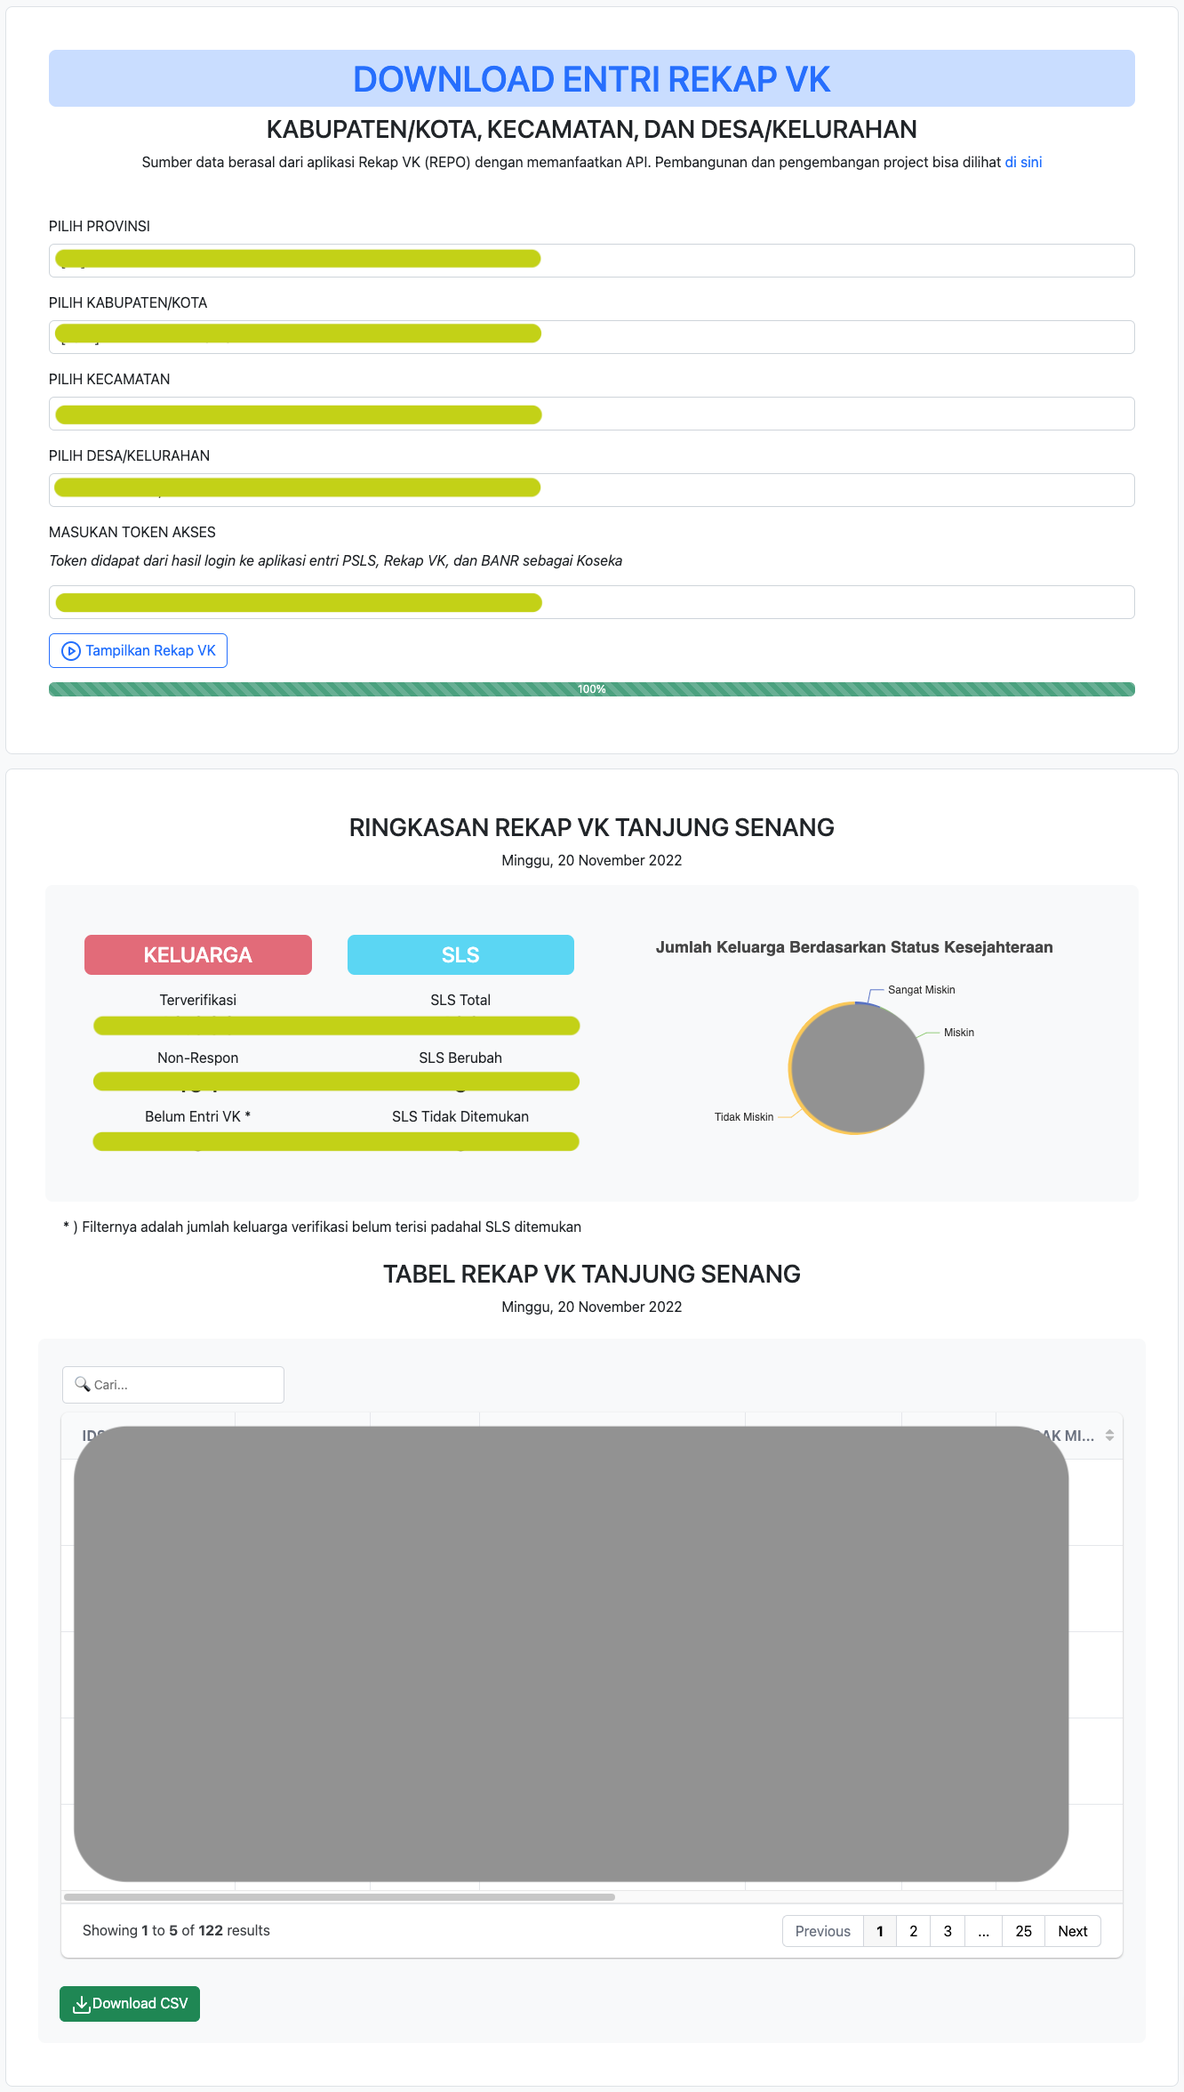
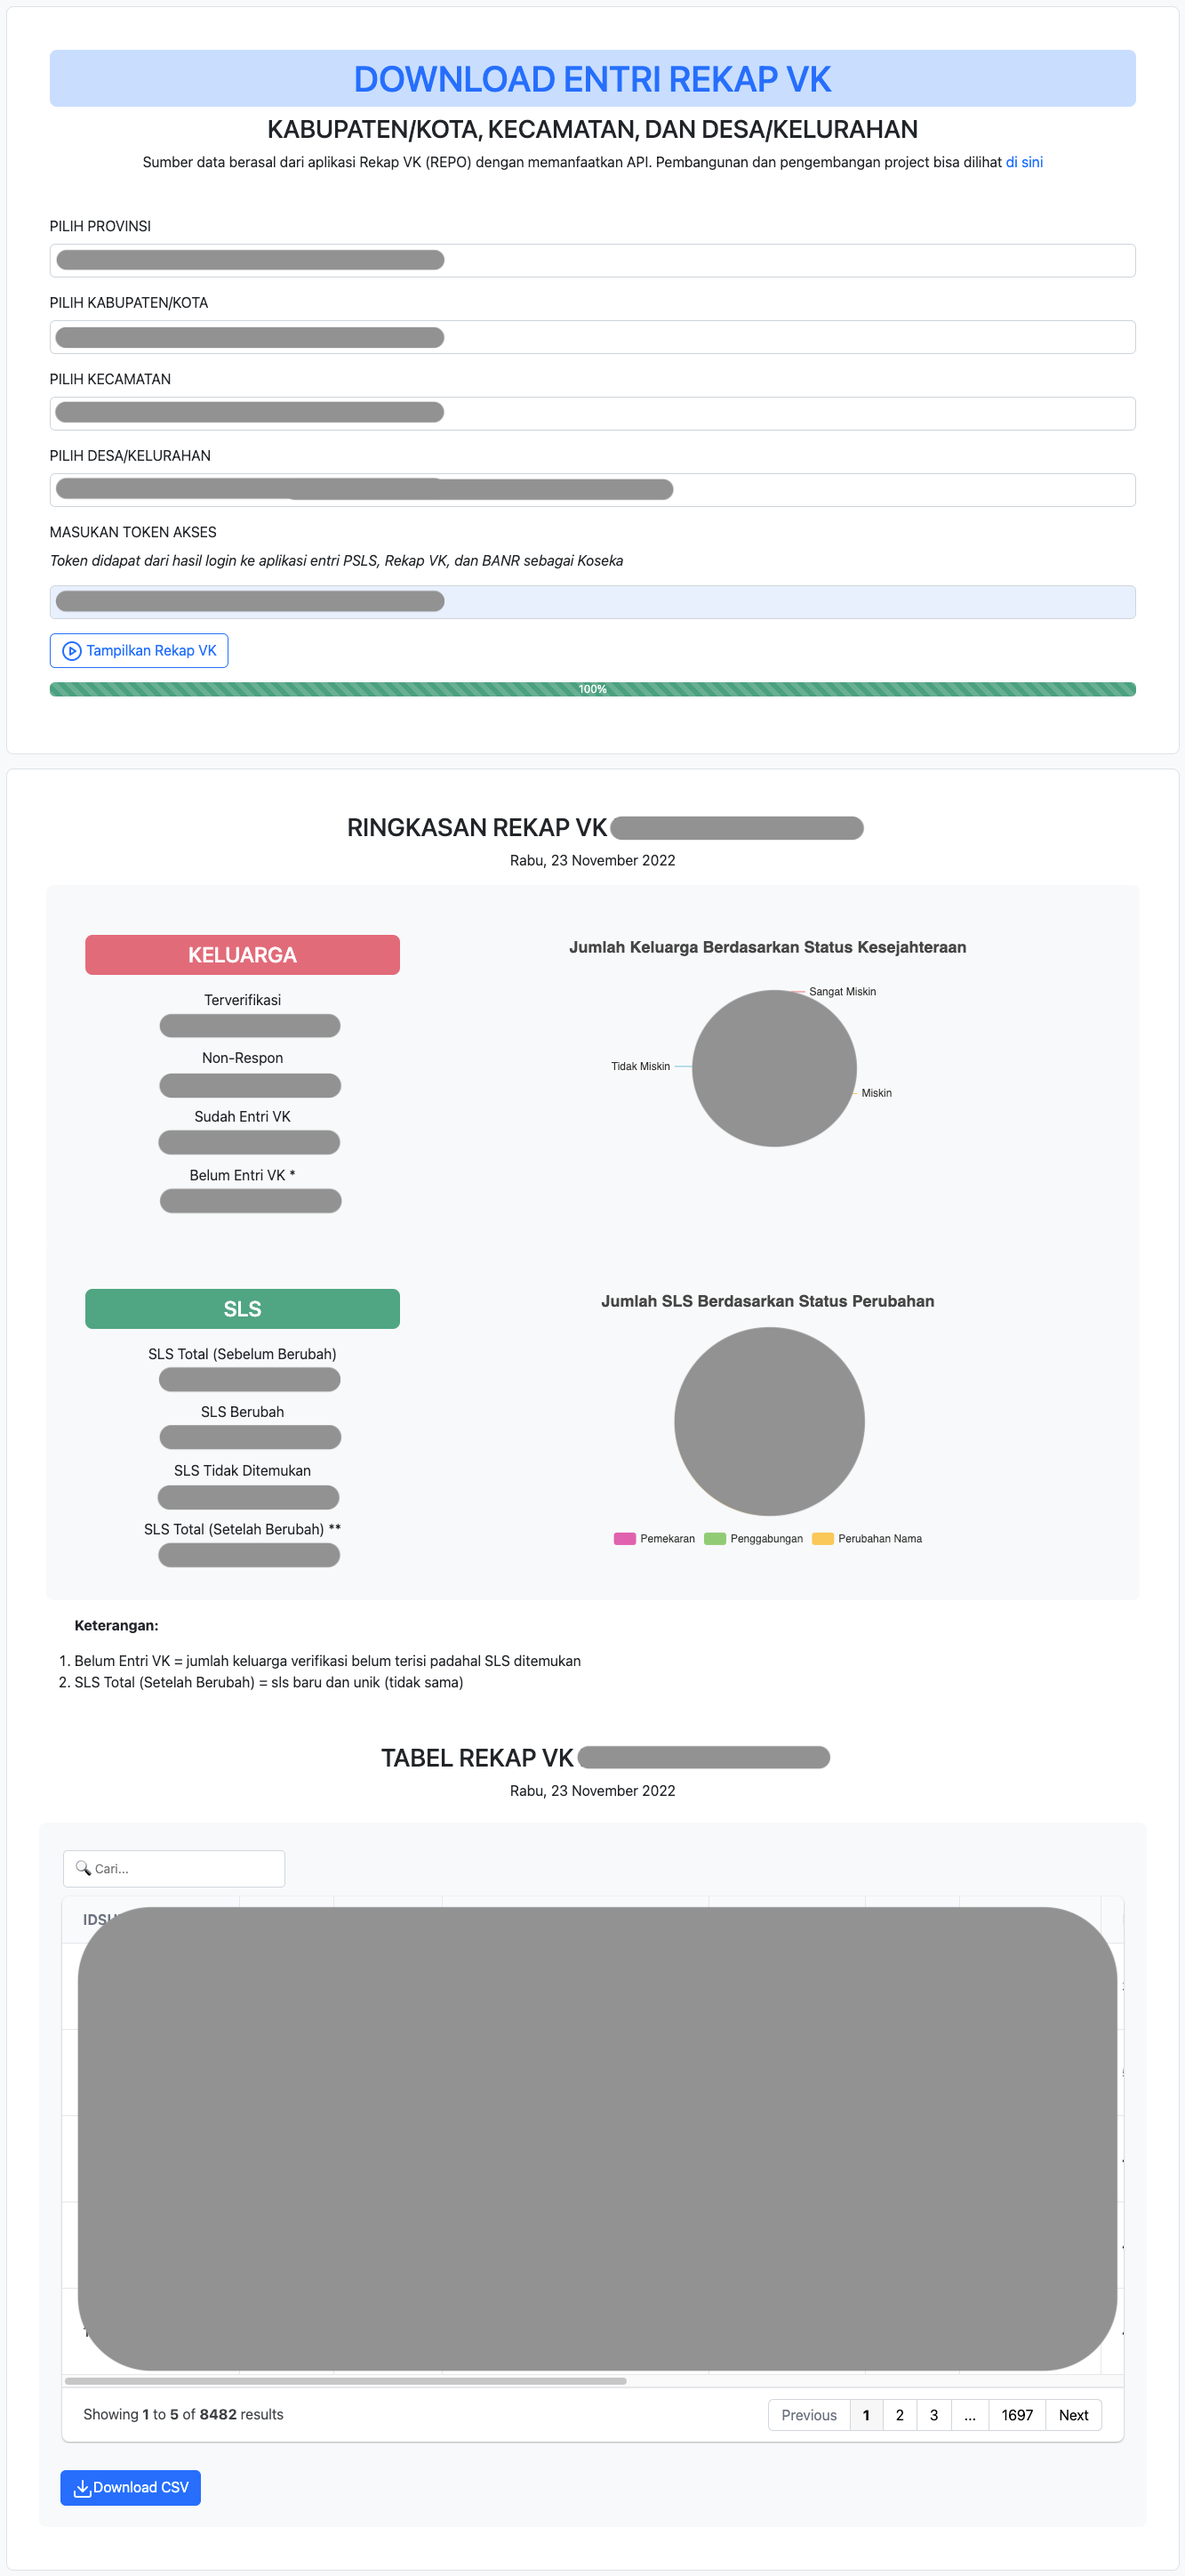
Tambahan informasi di Ringkasan serta update tampilan

diff --git a/common.js b/common.js
@@ -115,8 +115,7 @@ function loadKecamatan(url, idKabkota) {
 function loadKecamatanDiv(data) {
   let idKecamatan = document.getElementById("idKecamatan");
   idKecamatan.innerHTML = "";
-  idKecamatan.innerHTML =
-    `<option value="000">- SEMUA KECAMATAN -</option>`;
+  idKecamatan.innerHTML = `<option value="000">- SEMUA KECAMATAN -</option>`;
   data.forEach((d) => {
     let option = document.createElement("option");
     option.value = d.kode;
@@ -137,8 +136,7 @@ function loadDesaKelurahan(url, idKecamatan) {
 function loadDesaKelurahanDiv(data) {
   let idDesaKelurahan = document.getElementById("idDesaKelurahan");
   idDesaKelurahan.innerHTML = "";
-  idDesaKelurahan.innerHTML =
-    `<option value="000">- SEMUA DESA/KELURAHAN -</option>`;
+  idDesaKelurahan.innerHTML = `<option value="000">- SEMUA DESA/KELURAHAN -</option>`;
   data.forEach((d) => {
     let option = document.createElement("option");
     option.value = d.kode;
@@ -151,19 +149,21 @@ function getWilayah(idKabkota, idKecamatan, idDesaKelurahan) {
   if (idDesaKelurahan.value !== "000") {
     return {
       idWilayah: idDesaKelurahan.value,
-      nmWilayah: idDesaKelurahan.options[idDesaKelurahan.selectedIndex].text
+      nmWilayah: idDesaKelurahan.options[idDesaKelurahan.selectedIndex].text,
     };
-  }else
-  if (idKecamatan.value !== "000" && idDesaKelurahan.value === "000") {
+  } else if (idKecamatan.value !== "000" && idDesaKelurahan.value === "000") {
     return {
       idWilayah: idKecamatan.value,
-      nmWilayah: idKecamatan.options[idKecamatan.selectedIndex].text
+      nmWilayah: idKecamatan.options[idKecamatan.selectedIndex].text,
     };
-  }else
-  if (idKabkota.value !== "0000" && idKecamatan.value === "000" && idDesaKelurahan.value === "000") {
+  } else if (
+    idKabkota.value !== "0000" &&
+    idKecamatan.value === "000" &&
+    idDesaKelurahan.value === "000"
+  ) {
     return {
       idWilayah: idKabkota.value,
-      nmWilayah: idKabkota.options[idKabkota.selectedIndex].text
+      nmWilayah: idKabkota.options[idKabkota.selectedIndex].text,
     };
   }
 }
@@ -201,9 +201,22 @@ function familyCategoryRecap(data) {
   );
 }
 
+function slsCategoryRecap(data) {
+  // Jumlah SLS yang mengalami perubahan status kode 1, 2, dan 3
+  return {
+    mekar: data.filter((d) => d.status !== null && d.status === "1").length,
+    gabung: data.filter((d) => d.status !== null && d.status === "2").length,
+    ganti_nama: data.filter((d) => d.status !== null && d.status === "3")
+      .length,
+  };
+}
+
 function familyRecap(data) {
-  const count_recap = data.filter(
+  const count_belum_entri = data.filter(
     (d) => d.jumlah_keluarga_verifikasi === null && d.flag_tidak_ditemukan === 0
+  );
+  const count_sudah_entri = data.filter(
+    (d) => d.jumlah_keluarga_verifikasi !== null
   );
   const sum_recap = data.reduce(
     (prev, curr) => {
@@ -222,7 +235,8 @@ function familyRecap(data) {
   return {
     jumlah_keluarga_verifikasi: sum_recap.jumlah_keluarga_verifikasi,
     nonrespon: sum_recap.nonrespon,
-    belum_entri: count_recap.length,
+    belum_entri: count_belum_entri.length,
+    sudah_entri: count_sudah_entri.length,
   };
 }
 
@@ -232,11 +246,18 @@ function slsRecap(data) {
   const idsubsls_lama = data.filter((d) => d.idsubsls_baru === null);
   const sls_ditemukan = data.filter((d) => d.flag_tidak_ditemukan === 0);
   const sls_tidak_ditemukan = data.filter((d) => d.flag_tidak_ditemukan === 1);
+  const sls_setelah_berubah =
+    [
+      ...new Set(
+        data.filter((d) => d.idsubsls_baru !== null).map((d) => d.nmsls_baru)
+      ),
+    ].length + idsubsls_lama.length;
   return {
     idsubsls_baru: idsubsls_baru.length,
     idsubsls_lama: idsubsls_lama.length,
     sls_ditemukan: sls_ditemukan.length,
     sls_tidak_ditemukan: sls_tidak_ditemukan.length,
+    sls_setelah_berubah: sls_setelah_berubah,
   };
 }
 
@@ -266,29 +287,40 @@ function showDashboardDiv(dashDiv, nmWilayah) {
   hSubtitle.className = "text-center mb-4";
   summaryDiv.appendChild(hSubtitle);
 
-  let subSummaryDiv = document.createElement("div");
-  subSummaryDiv.className = "row g-2 bg-light p-4 rounded-3";
+  let firstSummaryDiv = document.createElement("div");
+  firstSummaryDiv.className = "row g-2 bg-light p-4 rounded-3";
+  let secondSummaryDiv = document.createElement("div");
+  secondSummaryDiv.className = "row g-2 bg-light p-4 rounded-3";
 
-  let childLeftSummaryDiv = document.createElement("div");
-  childLeftSummaryDiv.id = "childLeftSummaryDiv";
-  childLeftSummaryDiv.className = "col-3 py-4 rounded-3 text-center";
-  childLeftSummaryDiv.style = "height: 300px";
+  let firstLeftSummaryDiv = document.createElement("div");
+  firstLeftSummaryDiv.id = "firstLeftSummaryDiv";
+  firstLeftSummaryDiv.className = "col-4 py-4 rounded-3 text-center";
+  firstLeftSummaryDiv.style = "height: 350px";
+  // Inside firstLeftSummaryDiv
+  let firstRightSummaryDiv = document.createElement("div");
+  firstRightSummaryDiv.id = "firstRightSummaryDiv";
+  firstRightSummaryDiv.className = "col-8 py-4 rounded-3";
+  firstRightSummaryDiv.style = "height: 350px";
+  firstSummaryDiv.appendChild(firstLeftSummaryDiv);
+  firstSummaryDiv.appendChild(firstRightSummaryDiv);
 
-  let childCenterSummaryDiv = document.createElement("div");
-  childCenterSummaryDiv.id = "childCenterSummaryDiv";
-  childCenterSummaryDiv.className = "col-3 py-4 rounded-3 text-center";
-  childCenterSummaryDiv.style = "height: 300px";
-
-  let childRightSummaryDiv = document.createElement("div");
-  childRightSummaryDiv.id = "childRightSummaryDiv";
-  childRightSummaryDiv.className = "col-6 py-4 rounded-3";
-  childRightSummaryDiv.style = "height: 300px";
+  let secondLeftSummaryDiv = document.createElement("div");
+  secondLeftSummaryDiv.id = "secondLeftSummaryDiv";
+  secondLeftSummaryDiv.className = "col-4 py-4 rounded-3 text-center";
+  secondLeftSummaryDiv.style = "height: 350px";
+  // Inside firstLeftSummaryDiv
+  let secondRightSummaryDiv = document.createElement("div");
+  secondRightSummaryDiv.id = "secondRightSummaryDiv";
+  secondRightSummaryDiv.className = "col-8 py-4 rounded-3";
+  secondRightSummaryDiv.style = "height: 350px";
+  secondSummaryDiv.appendChild(secondLeftSummaryDiv);
+  secondSummaryDiv.appendChild(secondRightSummaryDiv);
 
   let bottomSummaryDiv = document.createElement("div");
   bottomSummaryDiv.id = "bottomSummaryDiv";
   bottomSummaryDiv.className = "row mx-3 mt-3 mb-4";
   bottomSummaryDiv.innerHTML =
-    "* ) Filternya adalah jumlah keluarga verifikasi belum terisi padahal SLS ditemukan";
+    "<p><strong>Keterangan:</strong><ol><li>Belum Entri VK = jumlah keluarga verifikasi belum terisi padahal SLS ditemukan</li><li>SLS Total (Setelah Berubah) = sls baru dan unik (tidak sama)</li></ol></p>";
 
   let subTableDiv = document.createElement("div");
   subTableDiv.id = "tableDiv";
@@ -309,61 +341,41 @@ function showDashboardDiv(dashDiv, nmWilayah) {
   showTableDiv.className = "bg-light p-4 rounded-3";
   subTableDiv.appendChild(showTableDiv);
 
-  subSummaryDiv.appendChild(childLeftSummaryDiv);
-  subSummaryDiv.appendChild(childCenterSummaryDiv);
-  subSummaryDiv.appendChild(childRightSummaryDiv);
-  summaryDiv.appendChild(subSummaryDiv);
+  summaryDiv.appendChild(firstSummaryDiv);
+  summaryDiv.appendChild(secondSummaryDiv);
   summaryDiv.appendChild(bottomSummaryDiv);
   summaryDiv.appendChild(subTableDiv);
   dashDiv.appendChild(summaryDiv);
 }
 
-function showLeftSummaryDiv(families) {
-  let idChildLeftSummaryDiv = document.getElementById("childLeftSummaryDiv");
-  idChildLeftSummaryDiv.innerHTML = "";
+function showFistSummaryDiv(familyRecaps, familyCharts) {
+  let firstLeftSummaryDiv = document.getElementById("firstLeftSummaryDiv");
+  firstLeftSummaryDiv.innerHTML = "";
+
   let hTitle = document.createElement("h4");
   hTitle.textContent = "Keluarga";
   hTitle.className =
     "text-center text-white text-uppercase font-weight-bold bg-danger bg-opacity-75 mx-3 py-2 rounded-3";
-  idChildLeftSummaryDiv.appendChild(hTitle);
+  firstLeftSummaryDiv.appendChild(hTitle);
 
   let pContent = document.createElement("p");
   pContent.className = "text-center mt-3";
   pContent.innerHTML = `Terverifikasi<h3>${formatNumber(
-    families.jumlah_keluarga_verifikasi
+    familyRecaps.jumlah_keluarga_verifikasi
   )}</h3>Non-Respon<h3>${formatNumber(
-    families.nonrespon
-  )}</h3>Belum Entri VK *<h3>${families.belum_entri}</h3>`;
-  idChildLeftSummaryDiv.appendChild(pContent);
-}
+    familyRecaps.nonrespon
+  )}</h3>Sudah Entri VK<h3>${formatNumber(
+    familyRecaps.sudah_entri
+  )}</h3></h3>Belum Entri VK *<h3>${formatNumber(
+    familyRecaps.belum_entri
+  )}</h3>`;
+  firstLeftSummaryDiv.appendChild(pContent);
 
-function showCenterSummaryDiv(sls) {
-  let idChildCenterSummaryDiv = document.getElementById(
-    "childCenterSummaryDiv"
-  );
-  idChildCenterSummaryDiv.innerHTML = "";
+  // Show chart
+  let firstRightSummaryDiv = document.getElementById("firstRightSummaryDiv");
+  let chartRightSummary = echarts.init(firstRightSummaryDiv);
 
-  let hTitle = document.createElement("h4");
-  hTitle.textContent = "SLS";
-  hTitle.className =
-    "text-center text-white text-uppercase font-weight-bold bg-info bg-opacity-75 mx-3 py-2 rounded-3";
-  idChildCenterSummaryDiv.appendChild(hTitle);
-
-  let pContent = document.createElement("p");
-  pContent.className = "text-center mt-3";
-  pContent.innerHTML = `SLS Total<h3>${formatNumber(
-    sls.idsubsls_baru + sls.idsubsls_lama
-  )}</h3>SLS Berubah<h3>${formatNumber(
-    sls.idsubsls_baru
-  )}</h3>SLS Tidak Ditemukan<h3>${formatNumber(sls.sls_tidak_ditemukan)}</h3>`;
-  idChildCenterSummaryDiv.appendChild(pContent);
-}
-
-function showRightSummaryDiv(families) {
-  let idChildRightSummaryDiv = document.getElementById("childRightSummaryDiv");
-  let chartRightSummary = echarts.init(idChildRightSummaryDiv);
-
-  let childRightOption = {
+  let chartRightSummaryOption = {
     title: {
       text: "Jumlah Keluarga Berdasarkan Status Kesejahteraan",
       left: "center",
@@ -385,16 +397,94 @@ function showRightSummaryDiv(families) {
         type: "pie",
         radius: "50%",
         data: [
-          { value: families.sangat_miskin, name: "Sangat Miskin" },
-          { value: families.miskin, name: "Miskin" },
-          { value: families.tidak_miskin, name: "Tidak Miskin" },
+          { value: familyCharts.sangat_miskin, name: "Sangat Miskin" },
+          { value: familyCharts.miskin, name: "Miskin" },
+          { value: familyCharts.tidak_miskin, name: "Tidak Miskin" },
         ],
+      },
+    ],
+    color: ["#EE6666", "#FAC858", "#73C0DE"],
+  };
+
+  if (chartRightSummaryOption && typeof chartRightSummaryOption === "object") {
+    chartRightSummary.setOption(chartRightSummaryOption);
+  }
+}
+
+function showSecondSummaryDiv(slsRecaps, slsCharts) {
+  let secondLeftSummaryDiv = document.getElementById("secondLeftSummaryDiv");
+  secondLeftSummaryDiv.innerHTML = "";
+
+  let hTitle = document.createElement("h4");
+  hTitle.textContent = "SLS";
+  hTitle.className =
+    "text-center text-white text-uppercase font-weight-bold bg-success bg-opacity-75 mx-3 py-2 rounded-3";
+    secondLeftSummaryDiv.appendChild(hTitle);
+
+  let pContent = document.createElement("p");
+  pContent.className = "text-center mt-3";
+  pContent.innerHTML = `SLS Total (Sebelum Berubah)<h3>${formatNumber(
+    slsRecaps.idsubsls_baru + slsRecaps.idsubsls_lama
+  )}</h3>SLS Berubah<h3>${formatNumber(
+    slsRecaps.idsubsls_baru
+  )}</h3>SLS Tidak Ditemukan<h3>${formatNumber(
+    slsRecaps.sls_tidak_ditemukan
+  )}</h3>
+  </h3>SLS Total (Setelah Berubah) **<h3>${formatNumber(
+    slsRecaps.sls_setelah_berubah
+  )}</h3>`;
+  secondLeftSummaryDiv.appendChild(pContent);
+
+  // Show chart
+  let secondRightSummaryDiv = document.getElementById("secondRightSummaryDiv");
+  let chartRightSummary = echarts.init(secondRightSummaryDiv);
+
+  let chartRightSummaryOption = {
+    title: {
+      text: "Jumlah SLS Berdasarkan Status Perubahan",
+      left: "center",
+    },
+    height: "300px",
+    tooltip: {
+      trigger: "item",
+    },
+    legend: {
+      bottom: "3%",
+      left: "center",
+    },
+
+    series: [
+      {
+        name: "Status Perubahan",
+        type: "pie",
+        radius: ["40%", "70%"],
+        avoidLabelOverlap: false,
+        label: {
+          show: false,
+          position: "center",
+        },
+        emphasis: {
+          label: {
+            show: true,
+            fontSize: "40",
+            fontWeight: "bold",
+          },
+        },
+        labelLine: {
+          show: false,
+        },
+        data: [
+          { value: slsCharts.mekar, name: "Pemekaran" },
+          { value: slsCharts.gabung, name: "Penggabungan" },
+          { value: slsCharts.ganti_nama, name: "Perubahan Nama" },
+        ],
+        color: ["#E062AE", "#91CC75", "#FAC858"],
       },
     ],
   };
 
-  if (childRightOption && typeof childRightOption === "object") {
-    chartRightSummary.setOption(childRightOption);
+  if (chartRightSummaryOption && typeof chartRightSummaryOption === "object") {
+    chartRightSummary.setOption(chartRightSummaryOption);
   }
 }
 
@@ -403,7 +493,7 @@ function showTableDiv(tables, data, nmWilayah) {
   idShowTableDiv.innerHTML = "";
 
   let downloadButton = document.createElement("a");
-  downloadButton.className = "btn btn-success w-10 mt-4";
+  downloadButton.className = "btn btn-primary w-10 mt-4";
   downloadButton.id = "downloadCSV";
   downloadButton.innerHTML = `${feather.icons.download.toSvg()}<span>Download CSV</span>`;
 

diff --git a/app.js b/app.js
@@ -155,13 +155,13 @@ document.onreadystatechange = function () {
           setTimeout(() => {
             // Show the data
             let familyCategoryRecaps = familyCategoryRecap(data);
+            let slsCategoryRecaps = slsCategoryRecap(data);
             let familiesRecaps = familyRecap(data);
             let slsRecaps = slsRecap(data);
             let slsTableRecaps = slsTable(data);
 
-            showLeftSummaryDiv(familiesRecaps);
-            showCenterSummaryDiv(slsRecaps);
-            showRightSummaryDiv(familyCategoryRecaps);
+            showFistSummaryDiv(familiesRecaps, familyCategoryRecaps);
+            showSecondSummaryDiv(slsRecaps, slsCategoryRecaps);
             showTableDiv(slsTableRecaps, data, nmWilayah);
           }, 3000);
         })

diff --git a/README.md b/README.md
@@ -15,6 +15,7 @@ Teknologi yang digunakan hanya menggunakan HTML, CSS, dan JS.
 - **[17 November 2022]** Kustomisasi tampilan dan fitur, update download menjadi CSV
 - **[19 November 2022]** Tambahan fitur dengan wilayah diperluas, bisa dipakai untuk semua provinsi, dan update tampilan ringkasan
 - **[20 November 2022]** Tambahan fitur dengan wilayah sampe desa/kelurahan, dan update tampilan
+- **[23 November 2022]** Tambahan Informasi di Ringkasan serta update tampilan
 ## Pengembang
 
 [Eko Teguh Widodo](https://github.com/ekotwidodo/rekap-vk-regsosek2022)
